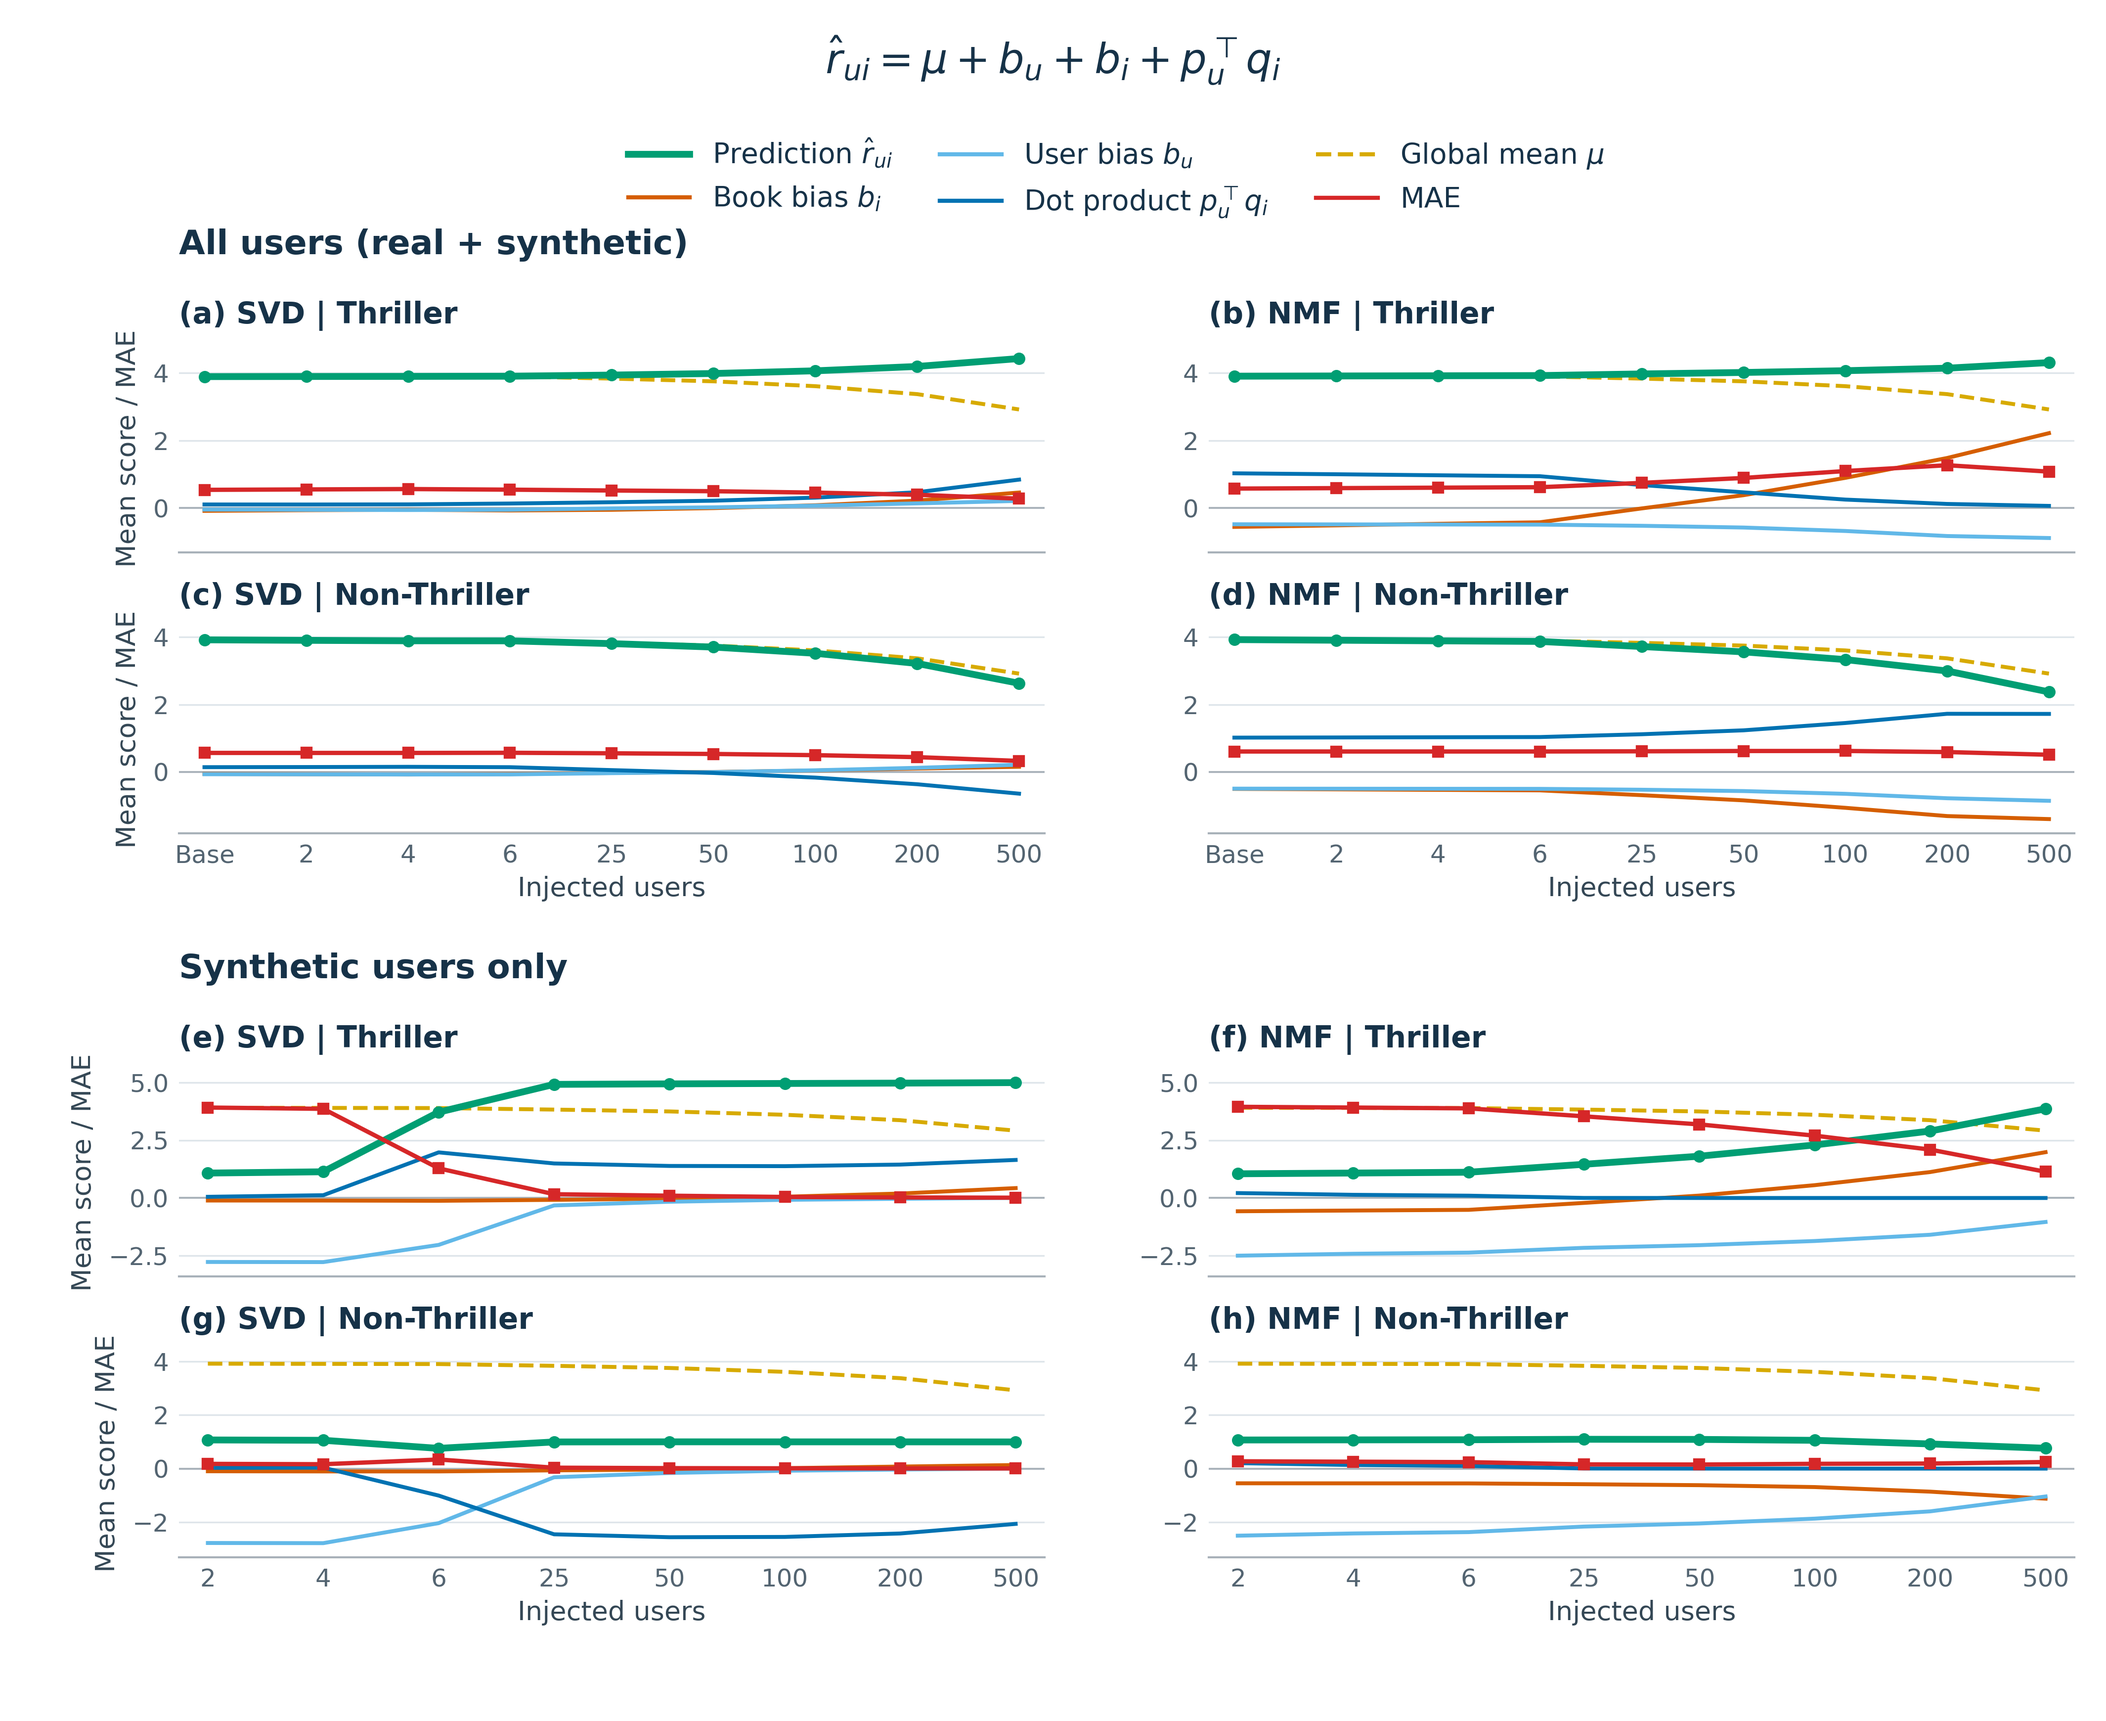
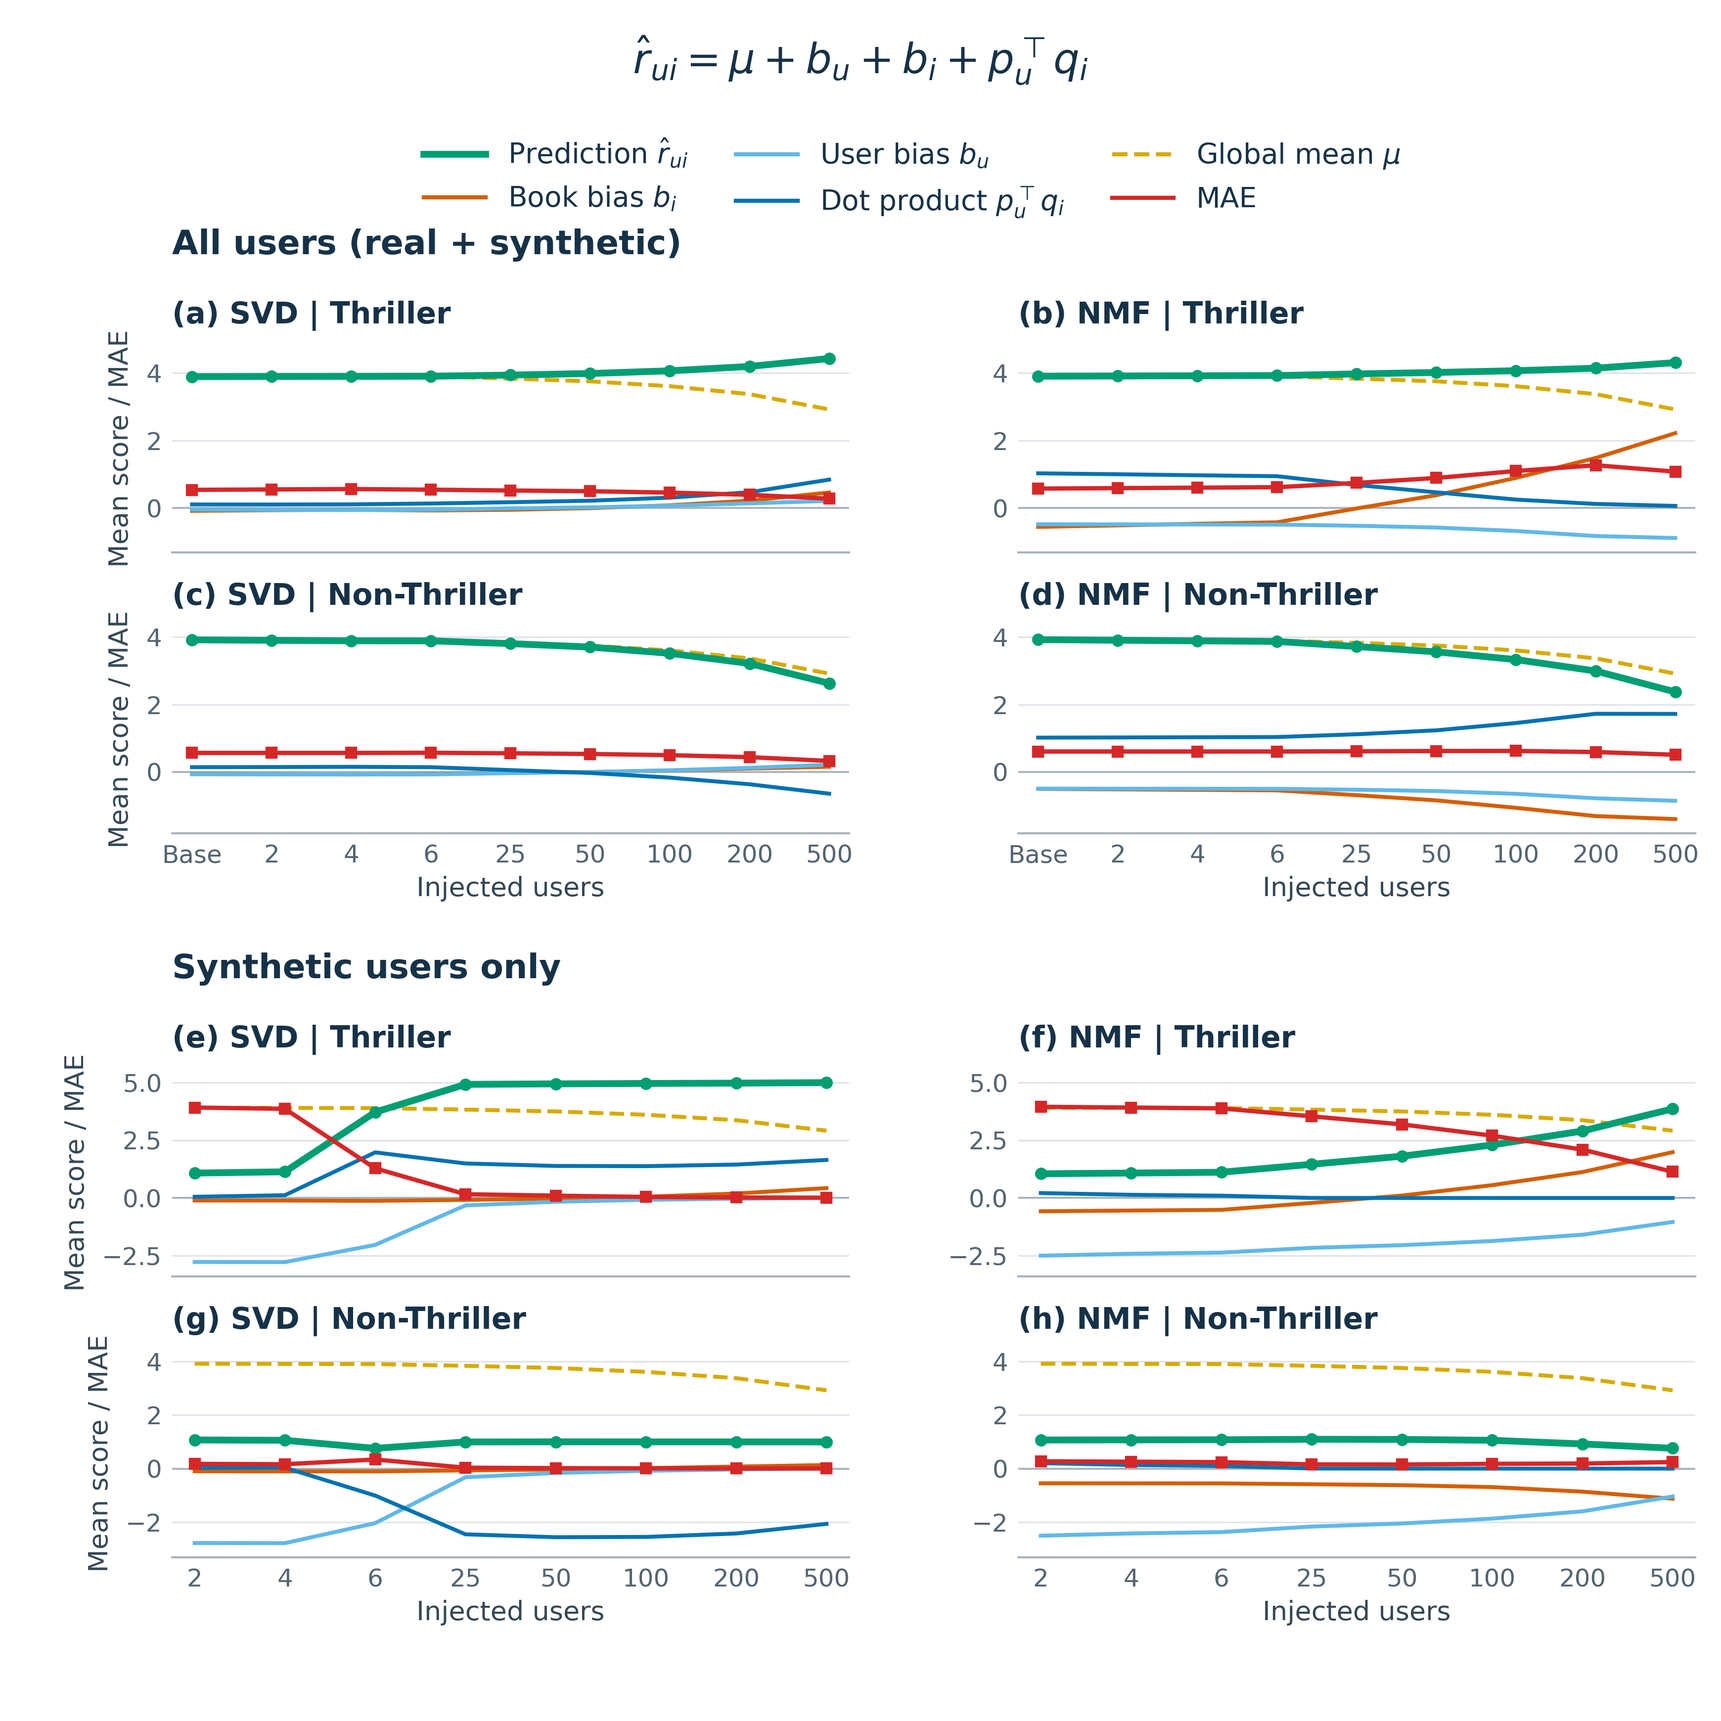
Shorten panel widths in eight-panel training figure

diff --git a/First_paper_material/notebook/plot_training_eight_panels.py b/First_paper_material/notebook/plot_training_eight_panels.py
@@ -13,11 +13,11 @@ p=D/'training_score_components.csv';ep=D/'training_all_users_mae.csv';f=pd.read_
 plt.rcParams.update({'font.family':'DejaVu Sans','font.size':7,'axes.titlesize':7.2,'axes.titleweight':'bold','axes.labelsize':6.5,'xtick.labelsize':6,'ytick.labelsize':6,'axes.spines.top':False,'axes.spines.right':False,'axes.spines.left':False,'axes.linewidth':.5,'axes.edgecolor':'#A8B1B9','text.color':'#163248','axes.labelcolor':'#344755','xtick.color':'#536471','ytick.color':'#536471','figure.facecolor':'white','savefig.facecolor':'white','pdf.fonttype':42})
 colors={'mean_prediction':'#009E73','mean_bi':'#D55E00','mean_bu':'#61B8E8','mean_interaction':'#0072B2','mu':'#D7AA00','mae':'#D62728'}
 labels={'mean_prediction':r'Prediction $\hat r_{ui}$','mean_bi':r'Book bias $b_i$','mean_bu':r'User bias $b_u$','mean_interaction':r'Dot product $p_u^\top q_i$','mu':r'Global mean $\mu$','mae':'MAE'}
-fig=plt.figure(figsize=(7.1,5.8))
-outer=fig.add_gridspec(2,1,left=.085,right=.985,bottom=.095,top=.80,hspace=.48)
+fig=plt.figure(figsize=(5.8,5.8))
+outer=fig.add_gridspec(2,1,left=.10,right=.985,bottom=.095,top=.80,hspace=.48)
 audit=[]
 for section,view in enumerate(['all_training','synthetic_training']):
- grid=outer[section].subgridspec(2,2,hspace=.35,wspace=.19)
+ grid=outer[section].subgridspec(2,2,hspace=.35,wspace=.25)
  for row,group in enumerate(['target','non_target']):
   axs=[]
   ds=[]
@@ -46,7 +46,7 @@ for section,view in enumerate(['all_training','synthetic_training']):
   values=np.concatenate(ds);span=values.max()-values.min();pad=max(span*.08,.15);axs[0].set_ylim(values.min()-pad,values.max()+pad)
  # Section labels above the corresponding 2x2 block.
  box=outer[section].get_position(fig)
- fig.text(.085,box.y1+.048,'All users (real + synthetic)' if section==0 else 'Synthetic users only',ha='left',va='bottom',fontsize=8.2,fontweight='bold')
+ fig.text(.10,box.y1+.048,'All users (real + synthetic)' if section==0 else 'Synthetic users only',ha='left',va='bottom',fontsize=8.2,fontweight='bold')
 fig.text(.5,.98,r'$\hat r_{ui}=\mu+b_u+b_i+p_u^\top q_i$',ha='center',va='top',fontsize=10)
 handles=[Line2D([0],[0],color=colors[k],lw=1.65 if k=='mean_prediction' else 1,ls='--' if k=='mu' else '-',label=labels[k]) for k in colors]
 fig.legend(handles=handles,loc='upper center',bbox_to_anchor=(.53,.935),ncol=3,frameon=False,fontsize=6.8,columnspacing=1.7,handlelength=2.2,labelspacing=.55)
@@ -55,5 +55,5 @@ fig.savefig(O/name,dpi=600)
 # Existing figure folder also holds the inspection preview; no new directories.
 fig.savefig(Path('/tmp/training_thriller_all_and_synthetic_8panel_preview.png'),dpi=170)
 plt.close(fig)
-(D/'training_eight_panel_validation.json').write_text(json.dumps({'source_sha256':{p.name:hashlib.sha256(p.read_bytes()).hexdigest(),ep.name:hashlib.sha256(ep.read_bytes()).hexdigest()},'panels':audit,'n_panels':8,'prediction_identity_checked':True,'mae_finite_nonnegative':True,'no_retraining':True,'size_inches':[7.1,5.8],'dpi':600,'output':str(O/name)},indent=2))
+(D/'training_eight_panel_validation.json').write_text(json.dumps({'source_sha256':{p.name:hashlib.sha256(p.read_bytes()).hexdigest(),ep.name:hashlib.sha256(ep.read_bytes()).hexdigest()},'panels':audit,'n_panels':8,'prediction_identity_checked':True,'mae_finite_nonnegative':True,'no_retraining':True,'size_inches':[5.8,5.8],'dpi':600,'output':str(O/name)},indent=2))
 print(O/name)
